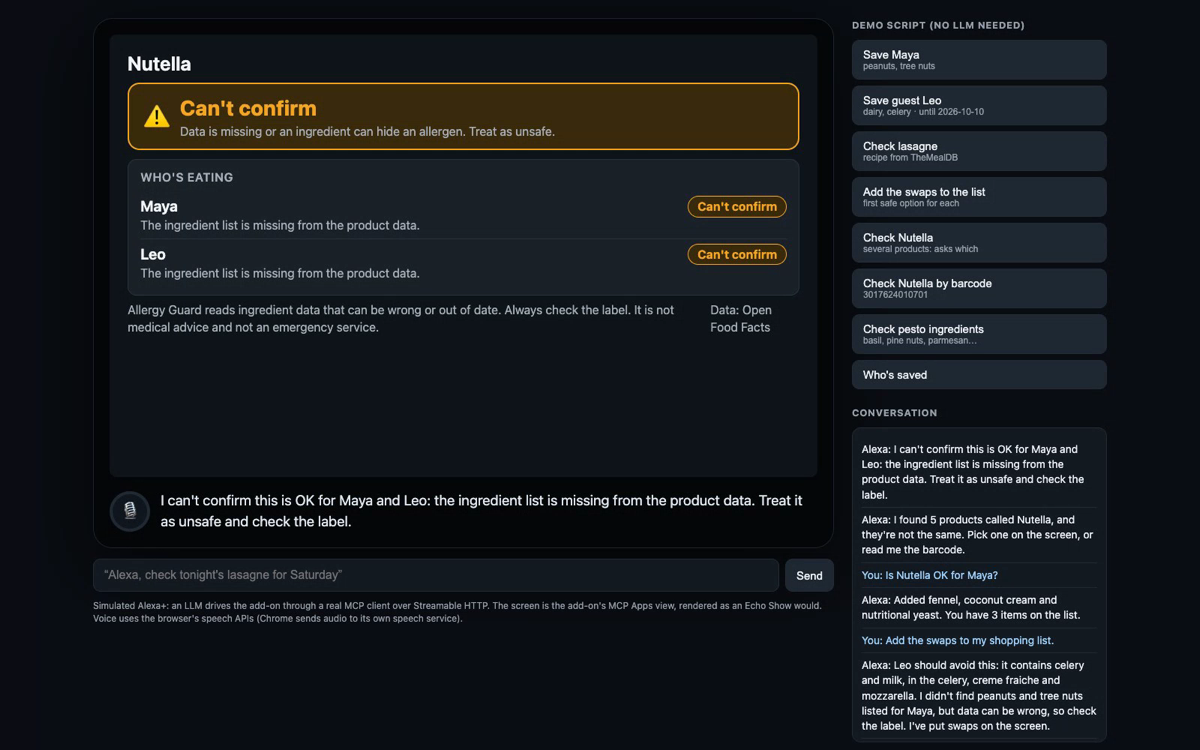
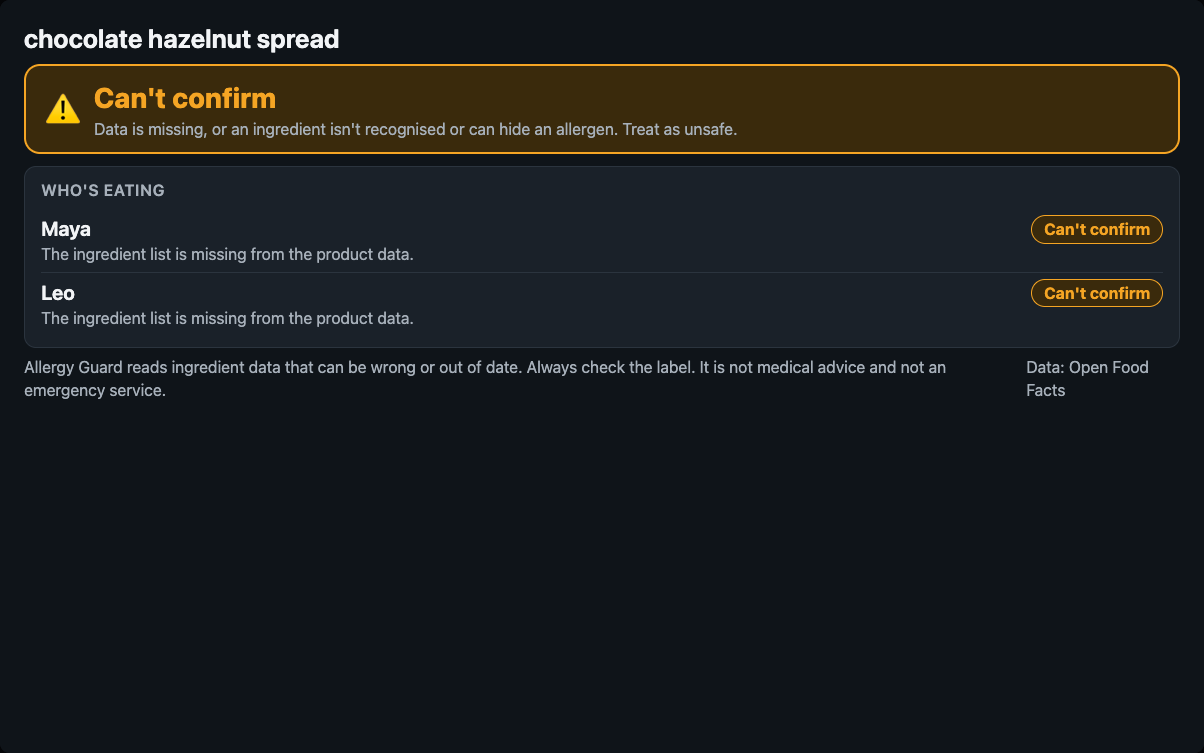
docs: demo video v2

diff --git a/docs/DEMO.md b/docs/DEMO.md
@@ -3,22 +3,22 @@
 The submitted video is a real run, not a mock-up:
 - The simulator was recorded in headless Chrome while a local model (Qwen3.5 9B, MLX) drove the MCP server, with live Open Food Facts and TheMealDB data.
 - The waits for the model were cut.
-- The voices are local text-to-speech: Higgs Audio v3, "am_vigil" for the narrator and the user, "af_quill" for Alexa.
+- The voices are local text-to-speech with Qwen3-TTS 1.7B (Apache-2.0): one voice per role (Alexa, the narrator and you), each designed with the VoiceDesign model and cloned from that reference with the Base model.
 - Alexa's lines are exactly what the run returned. Every clip was checked against its script with Whisper.
+- Products are shown by their generic names from the records.
 
 ## Script
 
 | On screen | Audio |
 |---|---|
-| Title card | "Allergy Guard is an Alexa+ add-on for homes with food allergies, built on one rule. It never tells you a food is safe." |
-| Simulator, idle | "This is a simulated Alexa+ on an Echo Show. A local model drives my MCP server, and the screen is the add-on's own MCP Apps view." |
+| A product record: chocolate hazelnut spread, allergens none listed, ingredients missing | "This is a real product record from Open Food Facts: a chocolate hazelnut spread, with an empty allergen list. A checker that only trusts that list would call it allergen-free." |
+| Title card | "Allergy Guard is an Alexa+ add-on with one rule: it never tells you a food is safe." |
+| Simulator, idle | "This is a simulated Alexa+ on an Echo Show. A local AI model drives my MCP server, and the screen is the add-on's MCP Apps view." |
 | Voice turn | You: "Alexa, save Maya. She's allergic to peanuts and tree nuts." Alexa confirms. |
-| Voice turn | You: "Leo from next door is coming on Saturday. He can't have dairy or celery." Alexa: "…guest Leo until Saturday 10 October: milk and celery." Narrator: guests drop off the list after their visit. |
-| Voice turn: the lasagne verdict | You: "Check tonight's lasagne for Saturday." Alexa: "Leo should avoid this: it contains celery and milk…" Narrator: avoid for Leo, none listed for Maya, never "safe"; no dairy-free cheese swap, because it's often cashew-based and Maya can't have tree nuts. |
-| Voice turn | You: "Add the swaps to my shopping list." Alexa: "Added fennel, coconut cream and nutritional yeast." |
-| Voice turn: which product? | You: "Is Nutella OK for Maya?" Alexa: five products share the name; pick one on the screen or read the barcode. |
-| Tap a product | Alexa: "I can't confirm this is OK for Maya and Leo: the ingredient list is missing…" Narrator: a naive checker would call it allergen-free. |
-| Demo button: by barcode | Alexa: avoid for both: tree nuts (hazelnut) for Maya, milk (milk powder) for Leo. Narrator: the record lists only nuts as an allergen, but the milk powder is in the ingredients. |
+| Voice turn | You: "Leo from next door is coming on Saturday. He can't have dairy or celery." Alexa: "…guest Leo until Saturday 10 October: milk and celery." |
+| Voice turn: the lasagne verdict, zooming on the cards | You: "Check tonight's lasagne for Saturday." Alexa: "Leo should avoid this: it contains celery and milk…" Narrator: avoid for Leo with the exact ingredients, nothing listed for Maya and still no "safe"; no dairy-free cheese swap, because it's often cashew-based and Maya can't have tree nuts. |
+| Voice turn: the spread by barcode (0868030000236) | Alexa: "I can't confirm this is OK for Maya and Leo: the ingredient list is missing from the product data…" Narrator: missing data never becomes "no allergens". |
+| Voice turn: a hot cocoa mix by barcode (0050700000220) | Alexa: avoid for Leo (milk, in the whey, caseinate and lactose), can't confirm for Maya. Narrator: the record lists soy as its only allergen and milk only as a "may contain"; the ingredient text adds the milk. |
 | Slide: keeping the model honest | The verdict lock and the no-tool guard, found by testing on a real model. |
 | Slide: how it's built | MCP server (spec 2025-11-25, Streamable HTTP), MCP Apps screen built to the Alexa+ design guide, open-source engine, and its tests. |
 

diff --git a/docs/SUBMISSION.md b/docs/SUBMISSION.md
@@ -19,7 +19,7 @@ The swaps go onto a shopping list.
 The core rule is fail-closed. When data is missing, ambiguous, not in English, or the lookup fails, the answer is "I can't confirm it's OK, treat it as unsafe". So is any recipe word the engine doesn't recognise ("I don't know what's in garam masala"). Even a clean result ends with "check the label".
 
 ## Why
-Food allergies are a high-stakes decision made several times a day, often with flour on your hands. The open data behind most allergy apps is volunteer-entered. The main Nutella record lists only nuts as an allergen, with milk at most a "may contain" trace, while its own ingredient list contains skimmed milk powder and soy lecithin. Another Nutella record has no ingredient data at all. A voice assistant that answers confidently from data like that is dangerous. One that knows when it doesn't know is useful.
+Food allergies are a high-stakes decision made several times a day, often with flour on your hands. The open data behind most allergy apps is volunteer-entered. In Open Food Facts, one chocolate hazelnut spread has an empty allergen list and no ingredients, and a hot cocoa mix lists soy as its only allergen while its ingredients include nonfat dry milk, whey and caseinate. A voice assistant that answers confidently from data like that is dangerous. One that knows when it doesn't know is useful.
 
 ## How it's built
 - Self-hosted MCP server in TypeScript using the MCP TypeScript SDK 1.32. It negotiates MCP spec **2025-11-25** over **Streamable HTTP** (stateless) and exposes 9 tools.
@@ -49,7 +49,7 @@ Food allergies are a high-stakes decision made several times a day, often with f
 - The verdict lock and no-tool guard are simulator-side. On real Alexa+ the defence is the server's `VERDICT:` line and exact speech sentence, plus the tool descriptions, because add-ons can't script what Alexa says. I've asked Amazon for a verbatim hook in the friction log.
 
 ## Video
-<YouTube or Vimeo URL>. The file is `docs/video/allergy-guard-demo.mp4` (2:56). Captions are in `allergy-guard-demo.srt`; upload them with the video.
+<YouTube or Vimeo URL>. The file is `docs/video/allergy-guard-demo.mp4` (2:55). Captions are in `allergy-guard-demo.srt`; upload them with the video.
 
 ## Try it (judges)
 `npm install && npm start`, then open http://127.0.0.1:8787/. The demo buttons call the MCP tools directly and need no model or API key. To talk to it, set `LLM_BASE_URL` and `LLM_MODEL` to any OpenAI-compatible endpoint with tool calling (see the README). Any MCP client can connect to `http://127.0.0.1:8787/mcp`.

diff --git a/README.md b/README.md
@@ -12,14 +12,14 @@ It is built around one rule: **when the data is missing, ambiguous or the lookup
 | A recipe check: verdict per person, the risky lines, swaps checked against everyone | Missing product data: "can't confirm", never "allergen-free" |
 |---|---|
 | ![Lasagne check](docs/screenshots/lasagne-check.png) | ![Can't confirm](docs/screenshots/cannot-confirm.png) |
-| **Several products share a name: it asks** | **Allergen tags say nuts; the ingredient text adds milk** |
-| ![Which product](docs/screenshots/which-product.png) | ![Product check](docs/screenshots/product-check.png) |
+| **A guest saved until Saturday: they drop off after the visit** | **Allergen tags say soy; the ingredient text adds milk** |
+| ![Household](docs/screenshots/household.png) | ![Product check](docs/screenshots/product-check.png) |
 
 Screens from the recorded demo run: a local model driving the server, with live data.
 
 ## Why fail-closed matters here
 
-Open Food Facts, the open food database this uses, says its data comes with "no assurances that the data is accurate, complete, or reliable". Real records prove it. The main Nutella record lists only *nuts* as an allergen, with milk at most a "may contain" trace, while its own ingredient list contains *skimmed milk powder* and *soya lecithin*. A second Nutella record has no allergen or ingredient data at all. A naive checker would call that one allergen-free.
+Open Food Facts, the open food database this uses, says its data comes with "no assurances that the data is accurate, complete, or reliable". Real records prove it. One chocolate hazelnut spread (barcode 0868030000236) has an empty allergen list and no ingredient list, so a checker that trusts the tags would call it allergen-free. A hot cocoa mix (0050700000220) lists soy as its only allergen, with milk only as a "may contain", while its ingredients include nonfat dry milk, whey and sodium caseinate.
 
 Allergy Guard:
 
